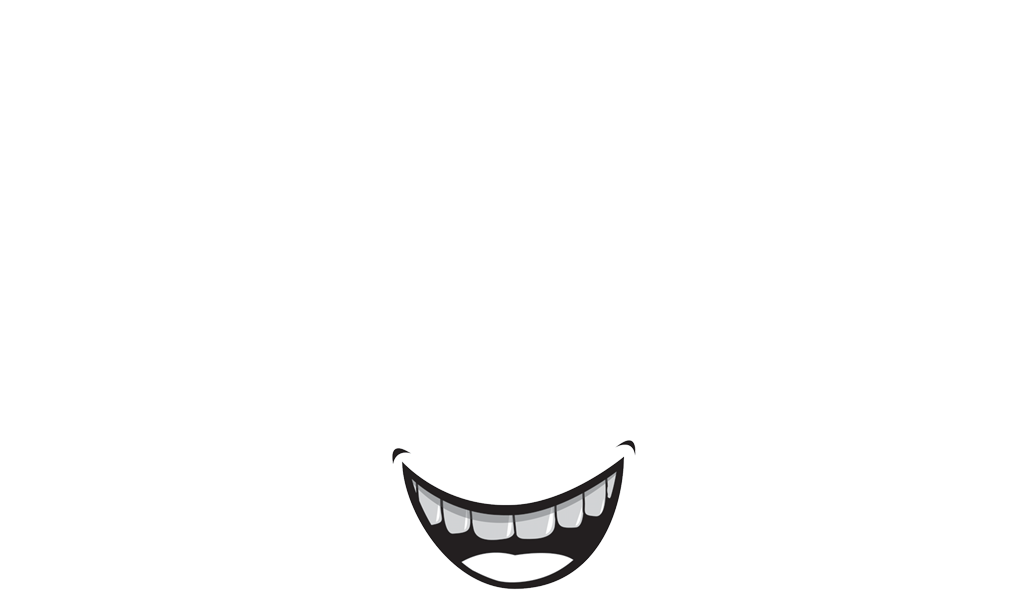
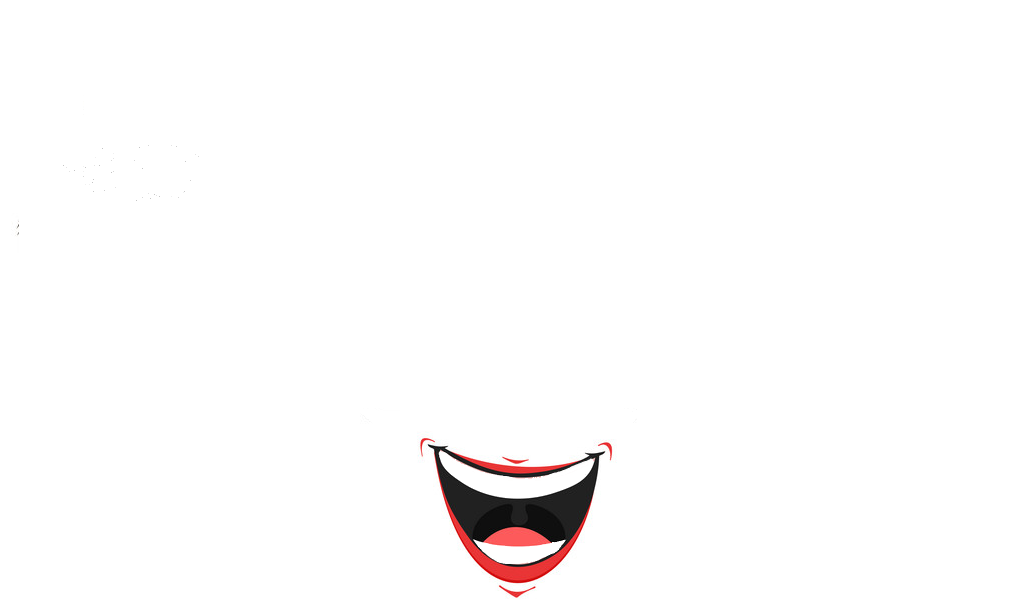
Change facial expression man and woman

Changed region(s): [[0.375, 0.72, 0.625, 1.0]]

diff --git a/scripts/Mouth.py b/scripts/Mouth.py
@@ -13,16 +13,16 @@ class Mouth:
     indexOfMouth = 0    # choosen element of the array
 
     def __init__(self, initMouth):
-        self.robot_gender = rospy.get_param("/robot_gender")
+        self.robot_gender = rospy.get_param("/gender")
 
         # This array keeps the diffirent shape of mouth
         self.mouths = [
             Image.open("data/"+self.robot_gender+"/mouth/baxter_mouth_angry.png"),
-            Image.open("data/"+self.robot_gender+"/mouth/baxter_mouth_boring_1.png"),
+            Image.open("data/"+self.robot_gender+"/mouth/baxter_mouth_boring.png"),
             Image.open("data/"+self.robot_gender+"/mouth/baxter_mouth_confused.png"),
-            Image.open("data/"+self.robot_gender+"/mouth/baxter_mouth_sad_1.png"),
-            Image.open("data/"+self.robot_gender+"/mouth/baxter_mouth_smile_open_1.png"),
-            Image.open("data/"+self.robot_gender+"/mouth/baxter_mouth_neutral_1.png")
+            Image.open("data/"+self.robot_gender+"/mouth/baxter_mouth_sad.png"),
+            Image.open("data/"+self.robot_gender+"/mouth/baxter_mouth_smile_open.png"),
+            Image.open("data/"+self.robot_gender+"/mouth/baxter_mouth_neutral.png")
             #Image.open("data/mouth/baxter_mouth_smile_open.png")
         ]
 

diff --git a/scripts/Face.py b/scripts/Face.py
@@ -54,7 +54,7 @@ import rospy
 class Face:
 
     def __init__(self):
-        self.robot_gender = rospy.get_param("/robot_gender")
+        self.robot_gender = rospy.get_param("/gender")
 
         # determine the path and set the default path place
         os.chdir(r'/home/{}/pal/cognitive_game_ws/src/robot_facial_expression/scripts'.format(getpass.getuser()))
@@ -219,7 +219,7 @@ class Face:
         self.winkMove(cv2, -330, 0.3, publish) # Eyelids are not seen.
         self.skin.setSkin(2)
         mouthIndex = 4#random.choice(mouthArray)
-        eyebrowIndex = random.choice(eyeBrowArray)
+        eyebrowIndex = 0#random.choice(eyeBrowArray)
         self.showEmotion(mouthIndex, eyebrowIndex, cv2, publish)
 
     def emotion_neutral(self, cv2, publish):
@@ -253,7 +253,7 @@ class Face:
         eyeBrowArray = [4]
         self.winkMove(cv2, -330, 0.3, publish) # Eyelids are not seen.
         self.skin.setSkin(1)
-        mouthIndex = random.choice(mouthArray)
+        mouthIndex = 3#random.choice(mouthArray)
         eyebrowIndex = random.choice(eyeBrowArray)
         self.showEmotion(mouthIndex, eyebrowIndex, cv2, publish)
 

diff --git a/scripts/Eye.py b/scripts/Eye.py
@@ -12,7 +12,7 @@ import rospy
 class Eye:
     
     def __init__(self):
-        self.robot_gender = rospy.get_param("/robot_gender")
+        self.robot_gender = rospy.get_param("/gender")
         self.eyes = Image.open("data/"+self.robot_gender+"/baxter_eye.png")   # eye image
         self.positionX = 0  # keeps the x position as a coordinate
         self.positionY = 0  # keeps the y position as a coordinate

diff --git a/scripts/Eyebrow.py b/scripts/Eyebrow.py
@@ -13,7 +13,7 @@ class Eyebrow:
     indexOfEyebrow = 0  # choosen element of the array
 
     def __init__(self, initEyebrow):
-        self.robot_gender = rospy.get_param("/robot_gender")
+        self.robot_gender = rospy.get_param("/gender")
         # This array keeps the diffirent shape of eyebrow
         self.eyebrows = [
             Image.open("data/"+self.robot_gender+"/eyebrow/baxter_eyebrow_0.png"),

diff --git a/scripts/Eyelid.py b/scripts/Eyelid.py
@@ -11,7 +11,7 @@ import rospy
 class Eyelid:
 
     def __init__(self):
-        self.robot_gender = rospy.get_param("/robot_gender")
+        self.robot_gender = rospy.get_param("/gender")
         self.eyelid = Image.open("data/"+self.robot_gender+"/baxter_eyelid.png") # eyelid image
         self.position = 0 # y position, we don't need x position because of vertical movment.
 

diff --git a/scripts/Skin.py b/scripts/Skin.py
@@ -13,7 +13,7 @@ class Skin:
     indexOfSkin = 5 # choosen element of the array
 
     def __init__(self, initSkin):
-        self.robot_gender = rospy.get_param("/robot_gender")
+        self.robot_gender = rospy.get_param("/gender")
 
         # This array keeps the diffirent colour version of skin
         self.skins = [
